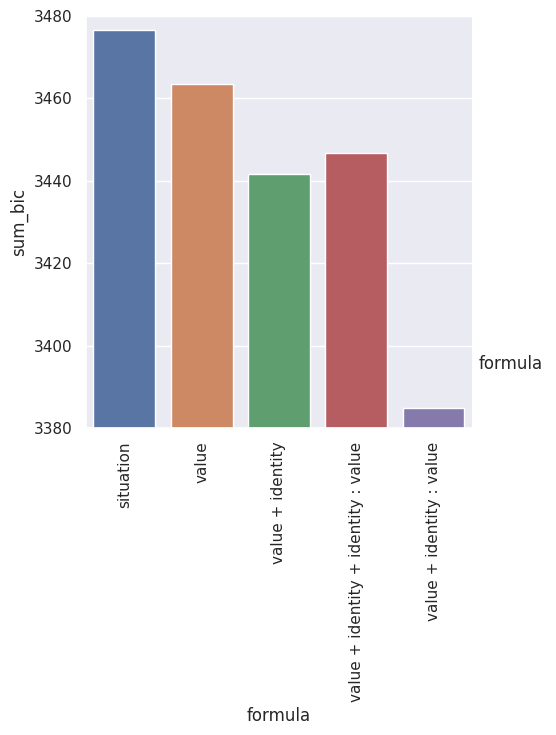
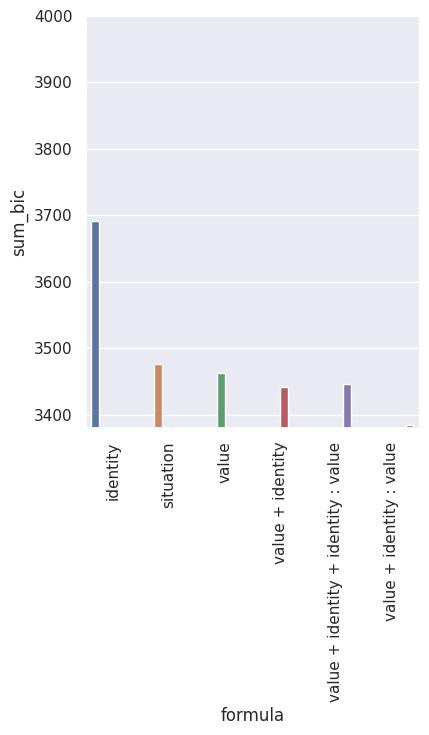
update 6 files

diff --git a/Simulations/neurons_analysis/README.md b/Simulations/neurons_analysis/README.md
@@ -11,12 +11,14 @@ python analysis_v1.py \
 -l $RESULTS_DIR/neurons_analysis/ \
 -m "df['bic'].iloc[-1]" \
 -f "./Simulations/neurons_analysis/base.yaml" \
+-d \
 -v \
 "import Simulations.neurons_analysis.utils as eu" \
 "df=eu.proc_df(df, 'bic')" \
 "df=au.reduce(df, ['formula'], lambda df: {'sum_bic': df['bic'].sum()})" \
+"print(df[['formula','sum_bic']])" \
 "g=sns.catplot(data=df, kind='bar', y='sum_bic', x='formula', hue='formula')" \
-"g.set(ylim=(3380, 3480))" \
+"g.set(ylim=(3380, 4000))" \
 "g.set_xticklabels(rotation=90)"
 ```
 
